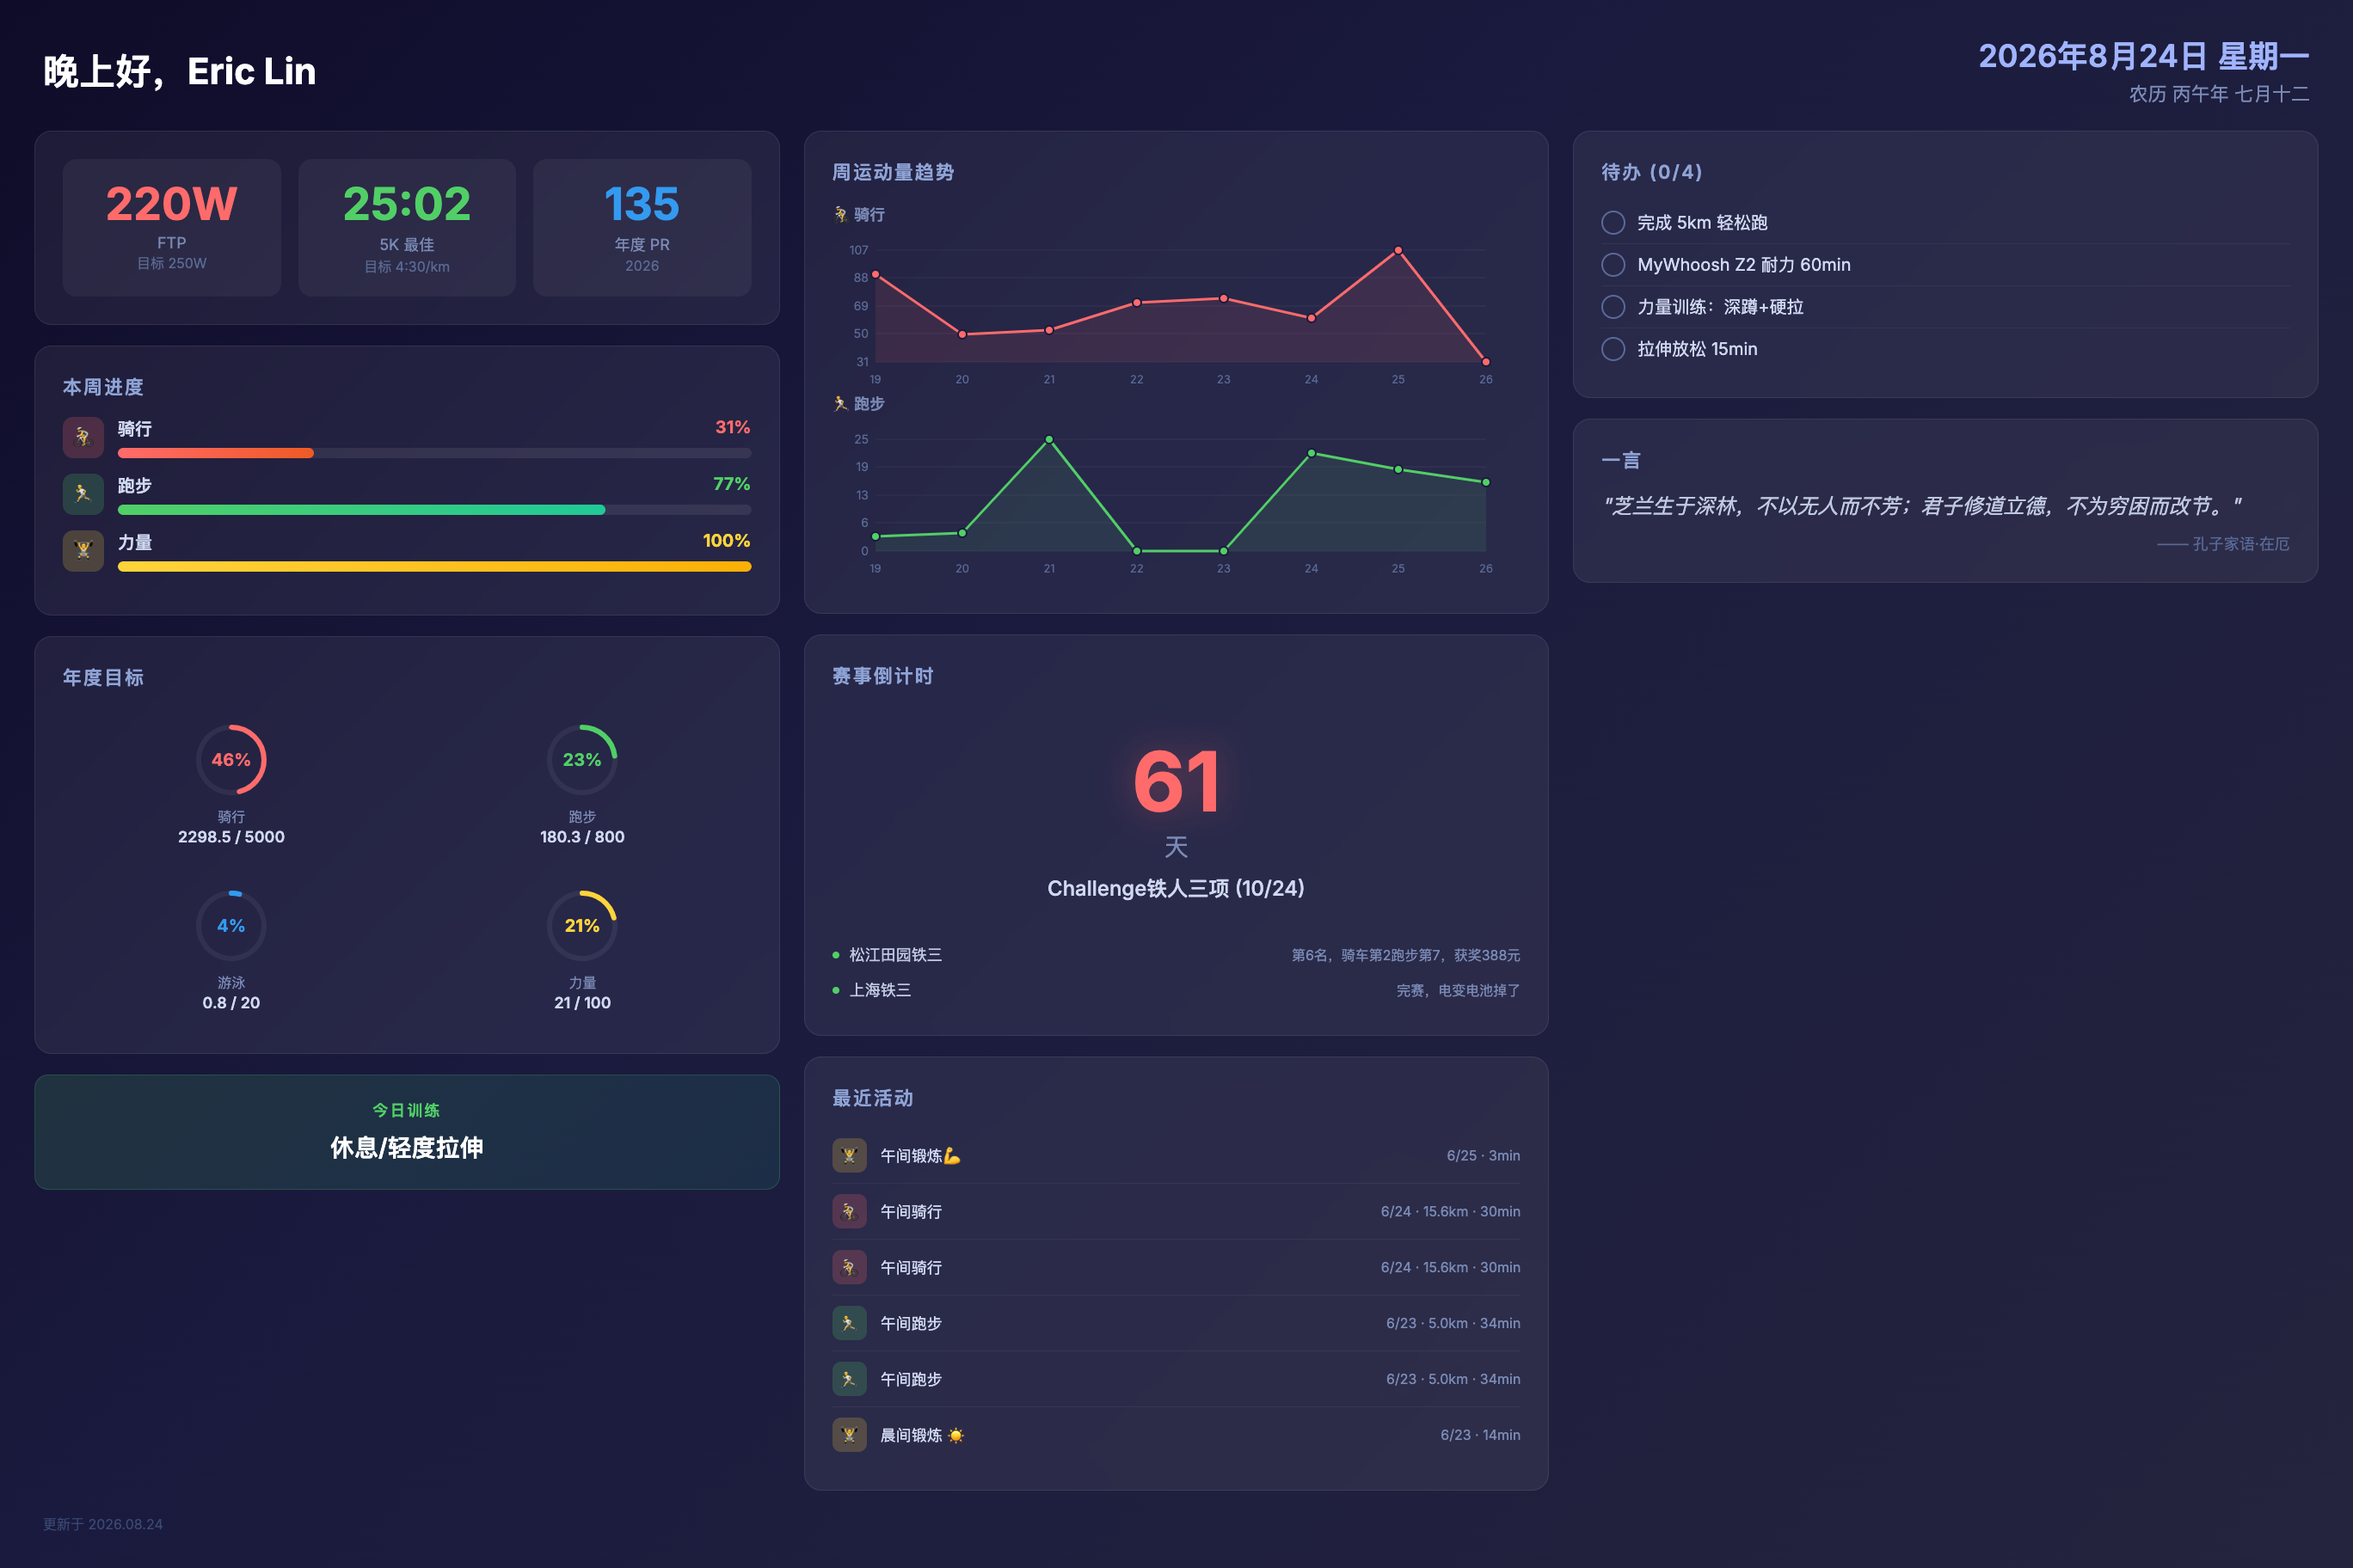
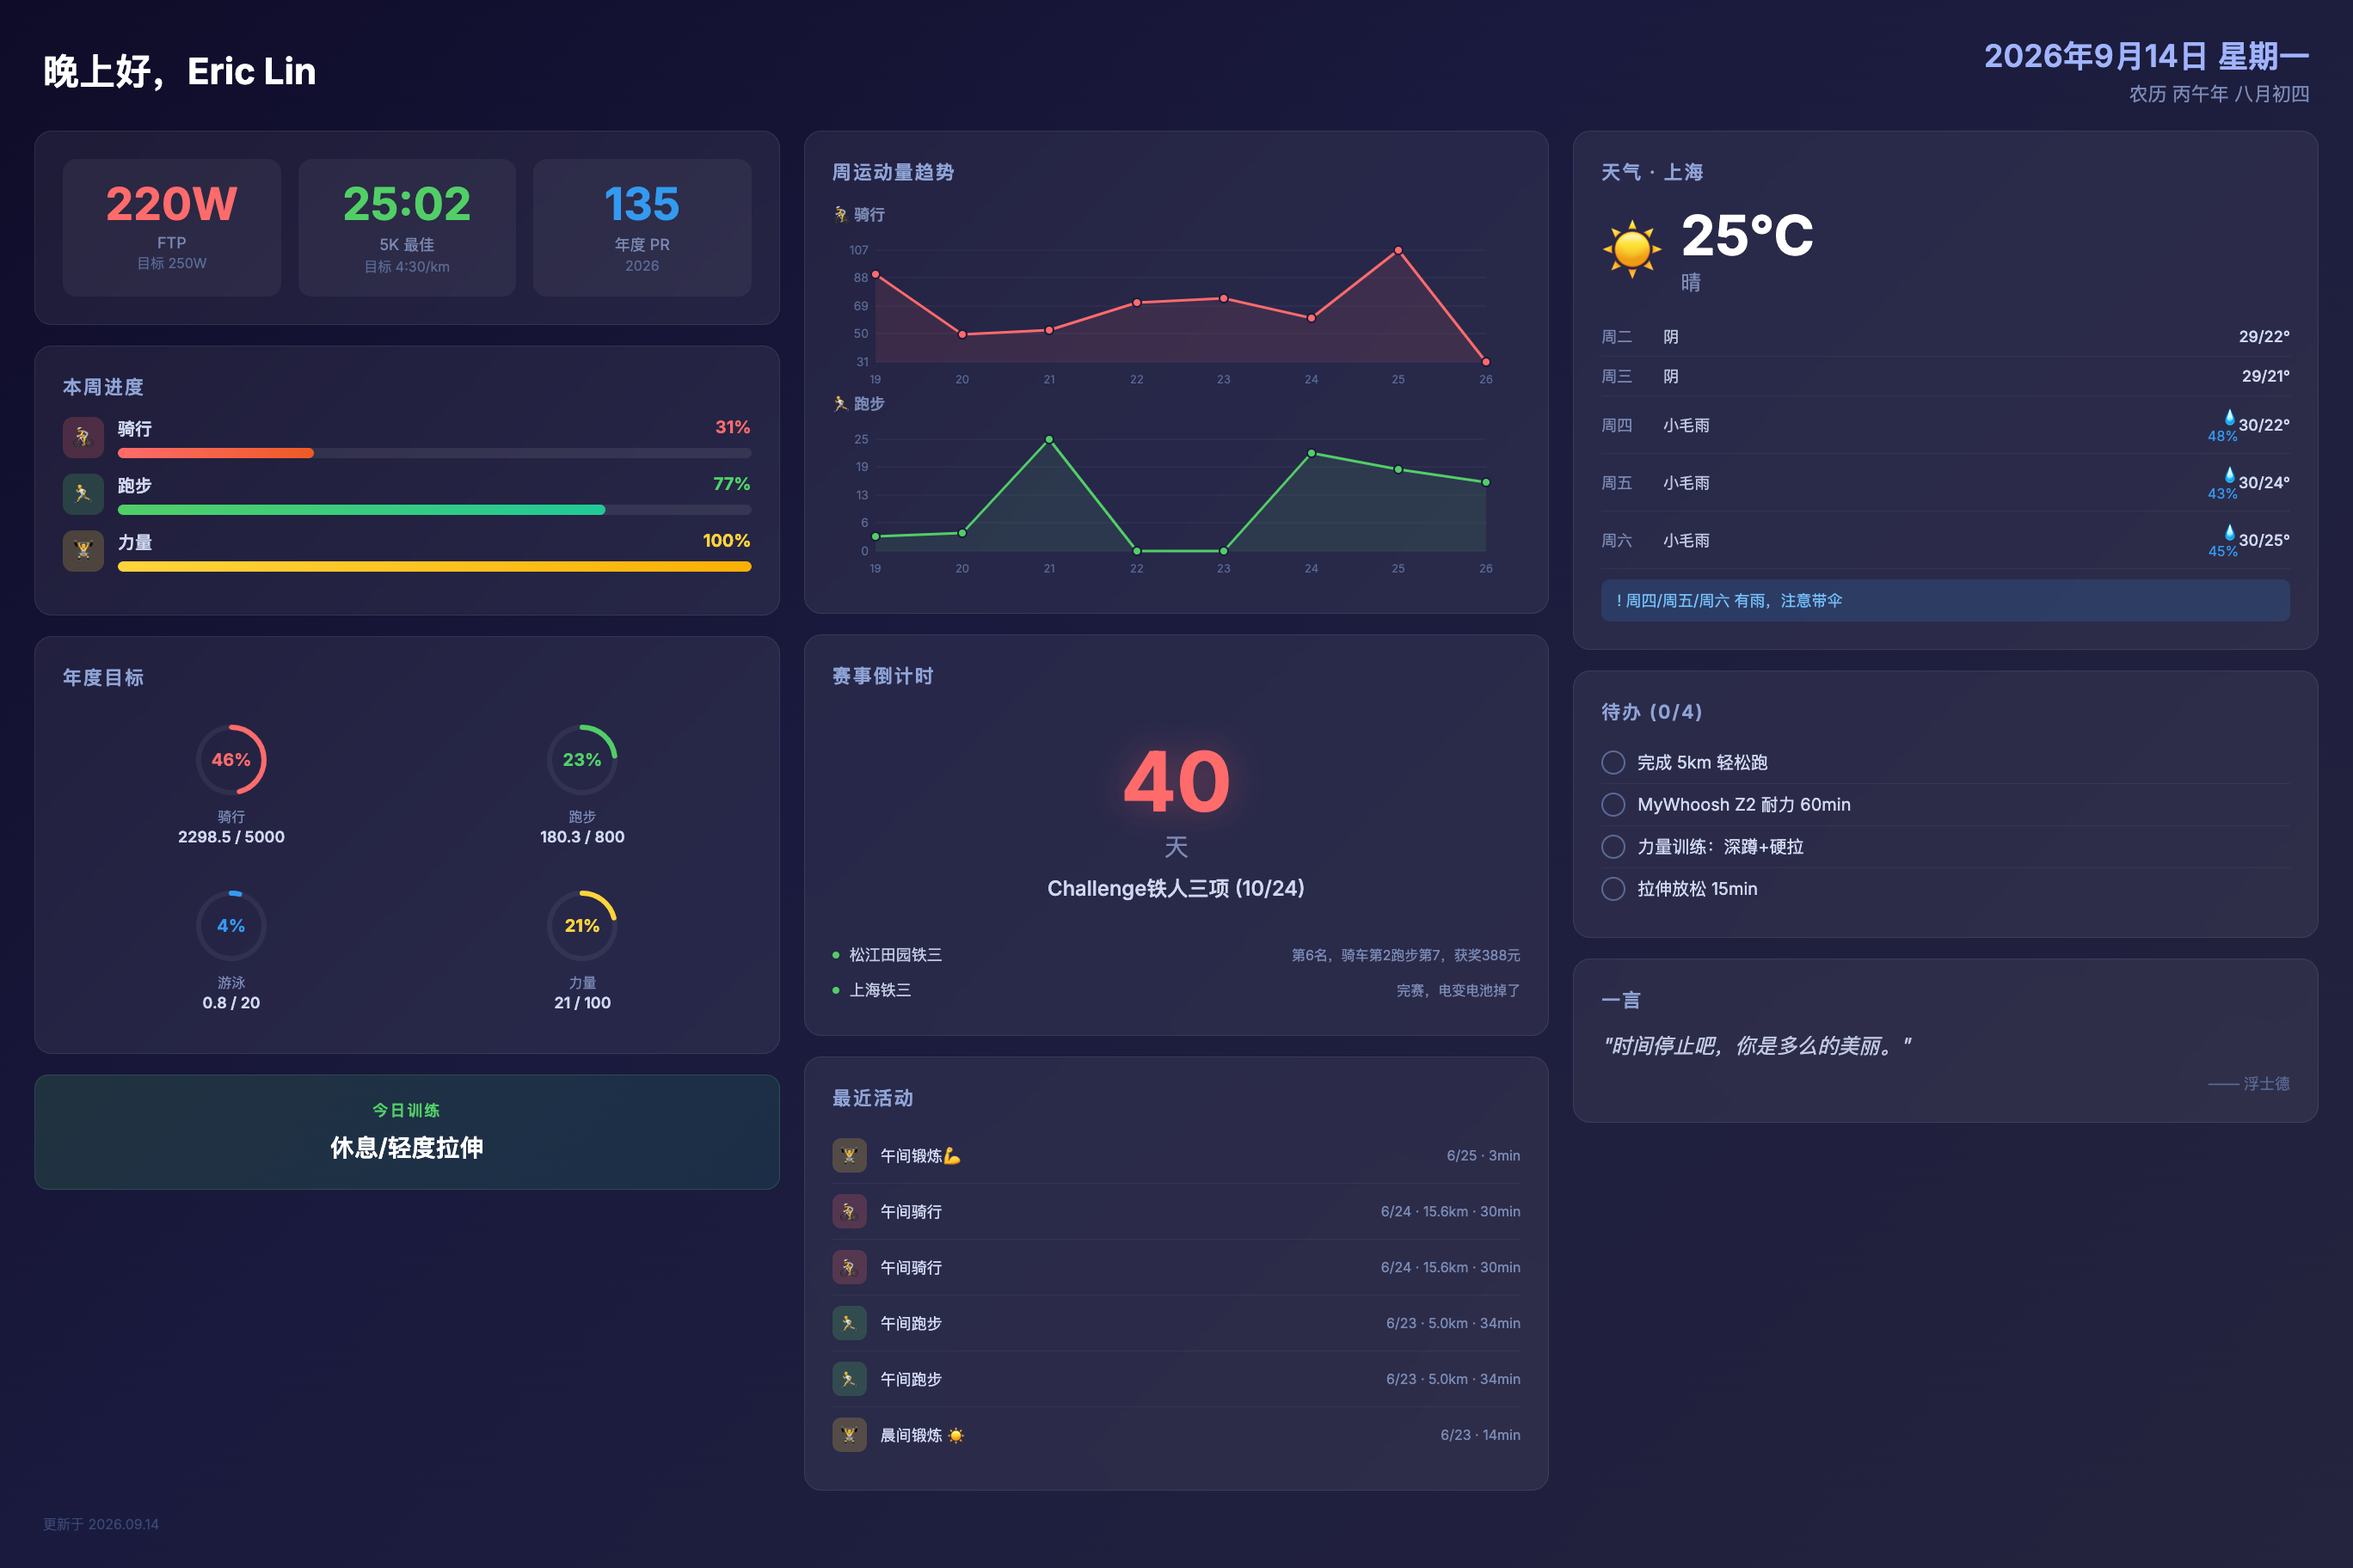
deploy: 2026-09-14-20:00

diff --git a/screensaver.html b/screensaver.html
@@ -494,9 +494,9 @@ html, body {
     
   </div>
   <div class="date-info">
-    <div class="solar-date">2026年8月24日 星期一</div>
+    <div class="solar-date">2026年9月14日 星期一</div>
     
-    <div class="lunar-date">农历 丙午年 七月十二</div>
+    <div class="lunar-date">农历 丙午年 八月初四</div>
     
   </div>
 </div>
@@ -732,7 +732,7 @@ html, body {
   <div class="card">
     <div class="card-title">赛事倒计时</div>
     <div class="race-countdown">
-      <div class="countdown-number">61</div>
+      <div class="countdown-number">40</div>
       <div class="countdown-unit">天</div>
       <div class="countdown-name">Challenge铁人三项 (10/24)</div>
     </div>
@@ -805,6 +805,58 @@ html, body {
 
   <!-- Weather -->
   
+  <div class="card">
+    <div class="card-title">天气 · 上海</div>
+    <div class="weather-current">
+      <div class="weather-icon-big">☀</div>
+      <div>
+        <div class="weather-temp-big">25°C</div>
+        <div class="weather-desc">晴</div>
+      </div>
+    </div>
+    
+    
+    <div class="forecast-row">
+      <div class="forecast-day">周二</div>
+      <div class="forecast-desc">阴</div>
+      <div class="forecast-precip"></div>
+      <div class="forecast-range">29/22°</div>
+    </div>
+    
+    <div class="forecast-row">
+      <div class="forecast-day">周三</div>
+      <div class="forecast-desc">阴</div>
+      <div class="forecast-precip"></div>
+      <div class="forecast-range">29/21°</div>
+    </div>
+    
+    <div class="forecast-row">
+      <div class="forecast-day">周四</div>
+      <div class="forecast-desc">小毛雨</div>
+      <div class="forecast-precip">💧48%</div>
+      <div class="forecast-range">30/22°</div>
+    </div>
+    
+    <div class="forecast-row">
+      <div class="forecast-day">周五</div>
+      <div class="forecast-desc">小毛雨</div>
+      <div class="forecast-precip">💧43%</div>
+      <div class="forecast-range">30/24°</div>
+    </div>
+    
+    <div class="forecast-row">
+      <div class="forecast-day">周六</div>
+      <div class="forecast-desc">小毛雨</div>
+      <div class="forecast-precip">💧45%</div>
+      <div class="forecast-range">30/25°</div>
+    </div>
+    
+    
+    
+    <div class="rain-alert">! 周四/周五/周六 有雨，注意带伞</div>
+    
+  </div>
+  
 
   <!-- Todos -->
   
@@ -850,9 +902,9 @@ html, body {
   
   <div class="card">
     <div class="card-title">一言</div>
-    <div class="quote-text">"芝兰生于深林，不以无人而不芳；君子修道立德，不为穷困而改节。"</div>
+    <div class="quote-text">"时间停止吧，你是多么的美丽。"</div>
     
-    <div class="quote-from">—— 孔子家语·在厄</div>
+    <div class="quote-from">—— 浮士德</div>
     
   </div>
   
@@ -861,7 +913,7 @@ html, body {
 
 <!-- ===== BOTTOM BAR ===== -->
 <div class="bottom-bar">
-  <div class="update-time">更新于 2026.08.24</div>
+  <div class="update-time">更新于 2026.09.14</div>
 </div>
 
 </div>

diff --git a/life.html b/life.html
@@ -89,7 +89,7 @@ html, body {
 <table class="header-table">
   <tr>
     <td class="header-left">生活</td>
-    <td class="header-right">2026.08.24</td>
+    <td class="header-right">2026.09.14</td>
   </tr>
 </table>
 
@@ -133,16 +133,84 @@ html, body {
 
 <!-- ===== 天气 ===== -->
 
+<div class="box">
+  <p class="section-title">☀ 天气 · 上海</p>
+  <table class="weather-table">
+    <tr>
+      <td class="weather-icon">*</td>
+      <td class="weather-temp">25°C</td>
+      <td class="weather-desc">晴</td>
+    </tr>
+  </table>
+  
+  <table class="forecast-table">
+    
+    <tr>
+      <td class="forecast-day">周二</td>
+      <td class="forecast-icon">~</td>
+      <td>阴</td>
+      <td class="forecast-range">29/22°C</td>
+    </tr>
+    
+    <tr>
+      <td class="forecast-day">周三</td>
+      <td class="forecast-icon">~</td>
+      <td>阴</td>
+      <td class="forecast-range">29/21°C</td>
+    </tr>
+    
+    <tr>
+      <td class="forecast-day">周四</td>
+      <td class="forecast-icon">.</td>
+      <td>小毛雨</td>
+      <td class="forecast-range">30/22°C</td>
+    </tr>
+    
+    <tr>
+      <td class="forecast-day">周五</td>
+      <td class="forecast-icon">.</td>
+      <td>小毛雨</td>
+      <td class="forecast-range">30/24°C</td>
+    </tr>
+    
+    <tr>
+      <td class="forecast-day">周六</td>
+      <td class="forecast-icon">.</td>
+      <td>小毛雨</td>
+      <td class="forecast-range">30/25°C</td>
+    </tr>
+    
+    <tr>
+      <td class="forecast-day">周日</td>
+      <td class="forecast-icon">*</td>
+      <td>大部晴</td>
+      <td class="forecast-range">30/23°C</td>
+    </tr>
+    
+    <tr>
+      <td class="forecast-day">周一</td>
+      <td class="forecast-icon">~</td>
+      <td>多云</td>
+      <td class="forecast-range">30/23°C</td>
+    </tr>
+    
+  </table>
+  
+  
+  <div class="rain-alert">! 周四/周五/周六 有雨，注意带伞</div>
+  
+</div>
+
 
 <!-- ===== 今日 ===== -->
 <div class="box">
   <p class="section-title">📅 今日</p>
   <table class="data-table">
     <tr>
-      <td>2026年8月24日 星期日</td>
+      <td>2026年9月14日 星期日</td>
     </tr>
     <tr>
-      <td>农历丙午年 七月十二</td>
+      <td>农历丙午年 八月初四</td>
     </tr>
   </table>
 </div>
@@ -193,9 +261,9 @@ html, body {
 
 <div class="box">
   <p class="section-title">💬 一言</p>
-  <p class="quote-text">芝兰生于深林，不以无人而不芳；君子修道立德，不为穷困而改节。</p>
+  <p class="quote-text">时间停止吧，你是多么的美丽。</p>
   
-  <p class="quote-from">—— 孔子家语·在厄</p>
+  <p class="quote-from">—— 浮士德</p>
   
 </div>
 

diff --git a/index.html b/index.html
@@ -74,7 +74,7 @@ html, body {
 <table class="header-table">
   <tr>
     <td class="header-left">Eric Lin · 运动</td>
-    <td class="header-right">2026.08.24</td>
+    <td class="header-right">2026.09.14</td>
   </tr>
 </table>
 
@@ -293,7 +293,7 @@ html, body {
   <p class="section-title">即将到来</p>
   
   <div class="countdown-box">
-    <div class="countdown-days">61</div>
+    <div class="countdown-days">40</div>
     <div class="countdown-label">距 Challenge铁人三项 (10/24)</div>
   </div>
   

diff --git a/work.html b/work.html
@@ -89,7 +89,7 @@ html, body {
 <table class="header-table">
   <tr>
     <td class="header-left">工作</td>
-    <td class="header-right">2026.08.24</td>
+    <td class="header-right">2026.09.14</td>
   </tr>
 </table>
 
